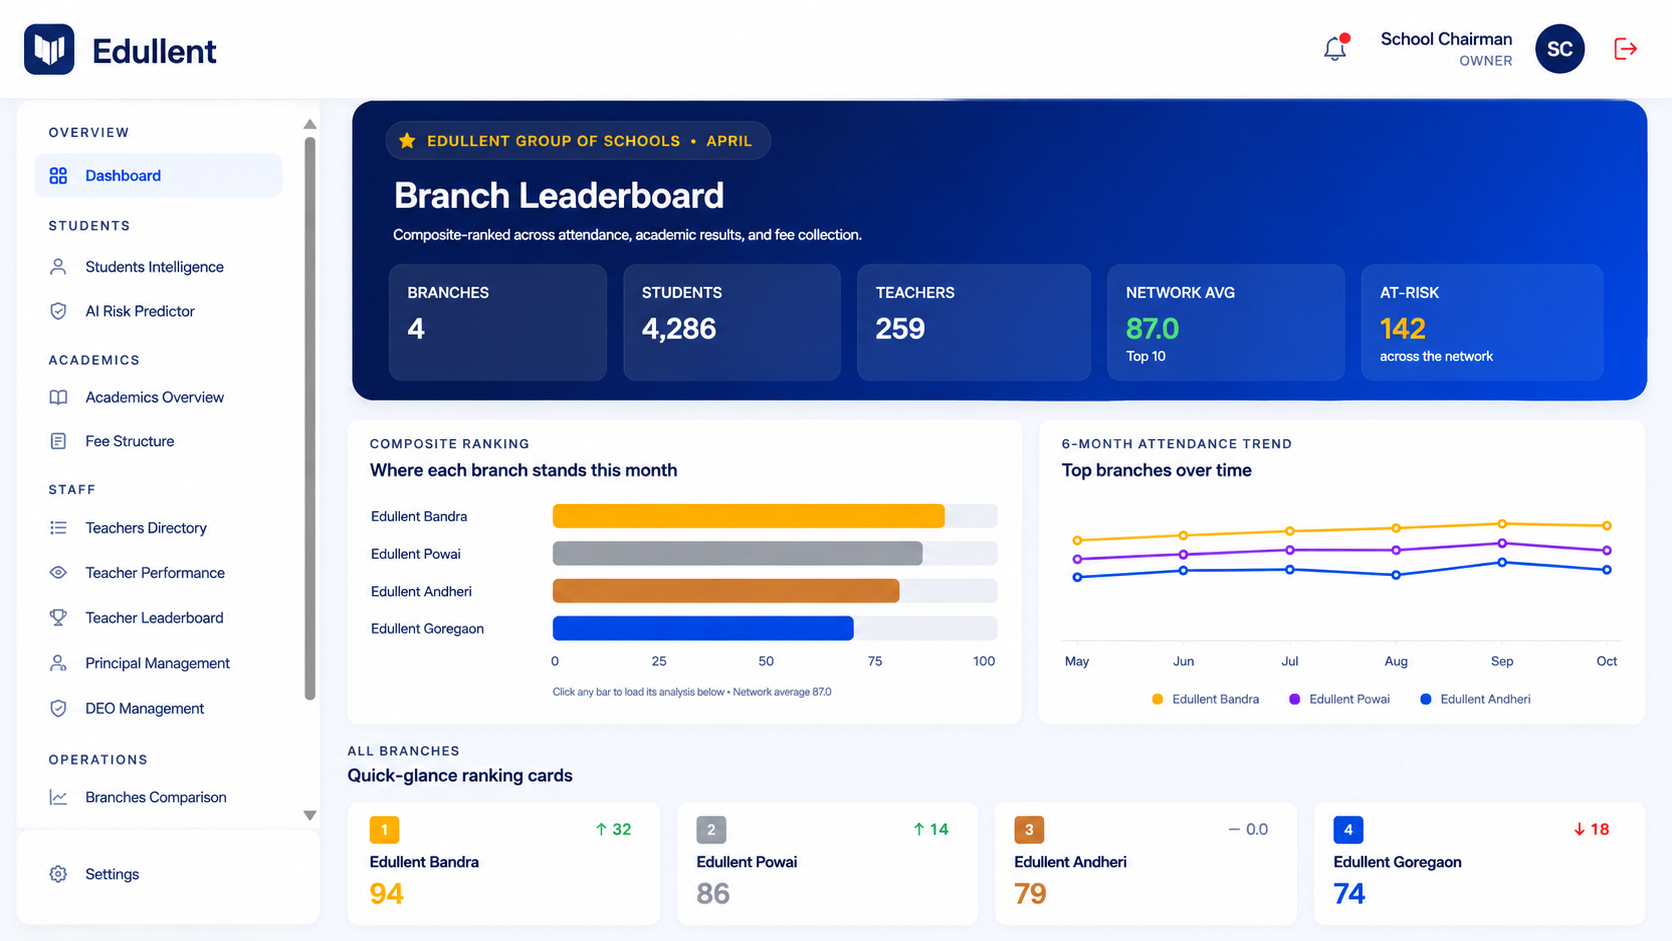
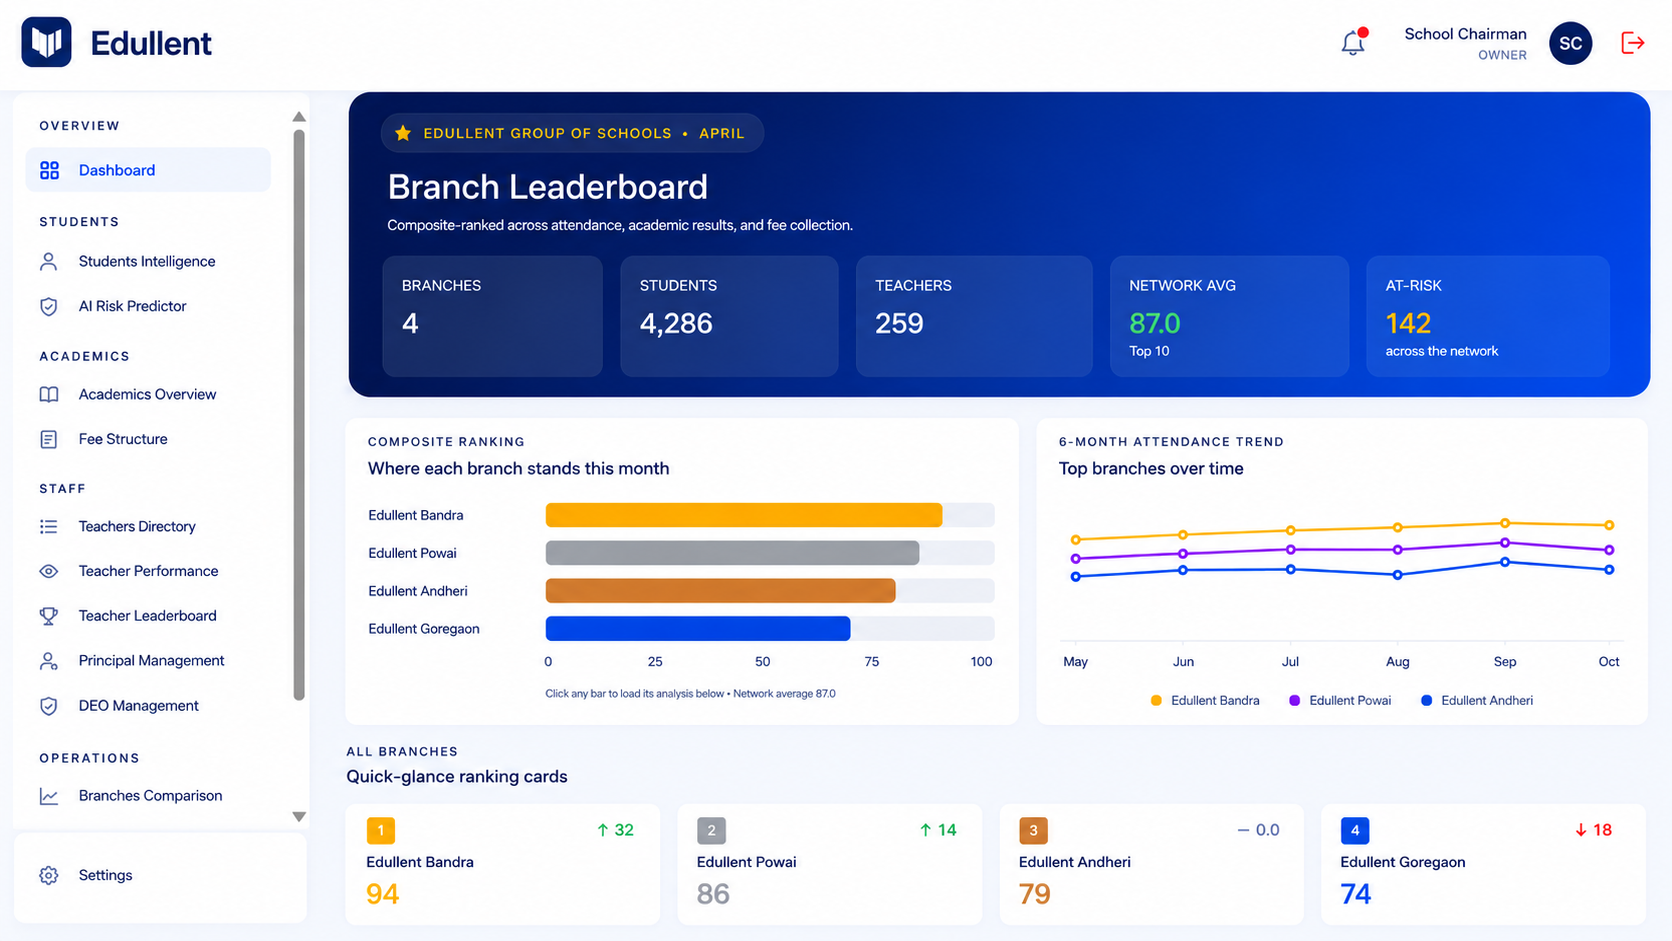
image replacable

diff --git a/src/components/RoleScrollShowcase.tsx b/src/components/RoleScrollShowcase.tsx
@@ -11,14 +11,7 @@ import { Sparkles, ArrowRight } from 'lucide-react';
  */
 const RoleScrollShowcase = () => (
   <section className="bg-[#fbfbfd]">
-    <ContainerScroll titleComponent={<Title eyebrow="For Owners" headline="See every campus at a glance." brand="#0071e3" />}>
-      <img
-        src="/dashboards/owner-branch-leaderboard.png"
-        alt="Edullent Owner Dashboard — Branch Leaderboard"
-        className="w-full h-full object-cover object-top"
-        draggable={false}
-      />
-    </ContainerScroll>
+    <OwnerShowcase />
     <RoleCta to="/owner" label="Explore Owner Dashboard" brand="#0071e3" />
 
     <ContainerScroll titleComponent={<Title eyebrow="For Principals" headline="Run your school with intelligence." brand="#003ECC" />}>
@@ -36,6 +29,42 @@ const RoleScrollShowcase = () => (
     </ContainerScroll>
     <RoleCta to="/parent" label="Explore Parent Dashboard" brand="#d97706" />
   </section>
+);
+
+/* ---------------------- Flat Owner showcase (no iPad bezel) ---------------------- */
+const OwnerShowcase = () => (
+  <div className="pt-16 md:pt-28 pb-10 md:pb-20 px-4 md:px-8">
+    <div className="max-w-5xl mx-auto text-center mb-8 md:mb-14">
+      <p
+        className="inline-flex items-center gap-2 text-[14px] md:text-[15px] font-semibold mb-4 tracking-[-0.01em]"
+        style={{ color: '#0071e3' }}
+      >
+        <Sparkles className="w-4 h-4" /> For Owners
+      </p>
+      <h2 className="text-[32px] md:text-[56px] lg:text-[64px] font-light text-[#1d1d1f] leading-[1.05] tracking-[-0.035em] mb-4">
+        See every campus at a glance.
+      </h2>
+      <p className="text-[#86868b] text-[16px] md:text-[18px] max-w-[560px] mx-auto leading-[1.45]">
+        The owner's bird's-eye view — every branch ranked, every metric in one frame.
+      </p>
+    </div>
+    <div className="max-w-[1240px] mx-auto">
+      <div
+        className="relative rounded-2xl md:rounded-3xl overflow-hidden bg-white ring-1 ring-black/[0.06]"
+        style={{
+          boxShadow:
+            '0 30px 80px rgba(15,23,42,0.18), 0 80px 160px rgba(15,23,42,0.12)',
+        }}
+      >
+        <img
+          src="/dashboards/owner-branch-leaderboard.png"
+          alt="Edullent Owner Dashboard — Branch Leaderboard"
+          className="w-full h-auto block"
+          draggable={false}
+        />
+      </div>
+    </div>
+  </div>
 );
 
 /* ---------------------- Per-role CTA below each scroll container ---------------------- */